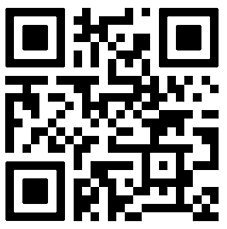
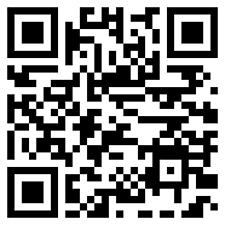
Fix of routing and QR code

diff --git a/app/views/open-banking/banking-cri/choose-bank-sign-in.html b/app/views/open-banking/banking-cri/choose-bank-sign-in.html
@@ -22,11 +22,11 @@ How do you want to sign in to your bank account?
         How do you want to sign in to your bank account?
       </h1>
 
-      <form class="form" action="open-banking-device-post" method="post">
+      <form class="form" action="banking-method" method="post">
         <div class="govuk-form-group">
           <fieldset class="govuk-fieldset" aria-describedby="bank-login-hint">
             <div class="govuk-radios" data-module="govuk-radios">
-              <!-- Text message -->
+              <!-- use phone or tablet -->
               <div class="govuk-radios__item">
                 <input class="govuk-radios__input" id="bank-login" name="bank-login" type="radio" value="qr-code" aria-describedby="bank-login-item-hint">
                 <label class="govuk-label govuk-radios__label" for="bank-login">
@@ -37,7 +37,7 @@ How do you want to sign in to your bank account?
                 </label>
               </div>
       
-              <!-- Phone call -->
+              <!-- stay on website -->
               <div class="govuk-radios__item">
                 <input class="govuk-radios__input" id="bank-login-2" name="bank-login" type="radio" value="bank-website" aria-describedby="bank-login-2-item-hint">
                 <label class="govuk-label govuk-radios__label" for="bank-login">

diff --git a/app/views/open-banking/routes/routes-bank-account.js b/app/views/open-banking/routes/routes-bank-account.js
@@ -43,6 +43,7 @@ router.post(`${parentDir}/banking-cri/bank-screener`, function (req, res) {
 })
 
 
+
 router.post(`${parentDir}/banking-cri/open-banking-device-post`, function (req, res) {
     var deviceType = req.session.data['screener'];
     console.log(deviceType);  // Debug to check the session value
